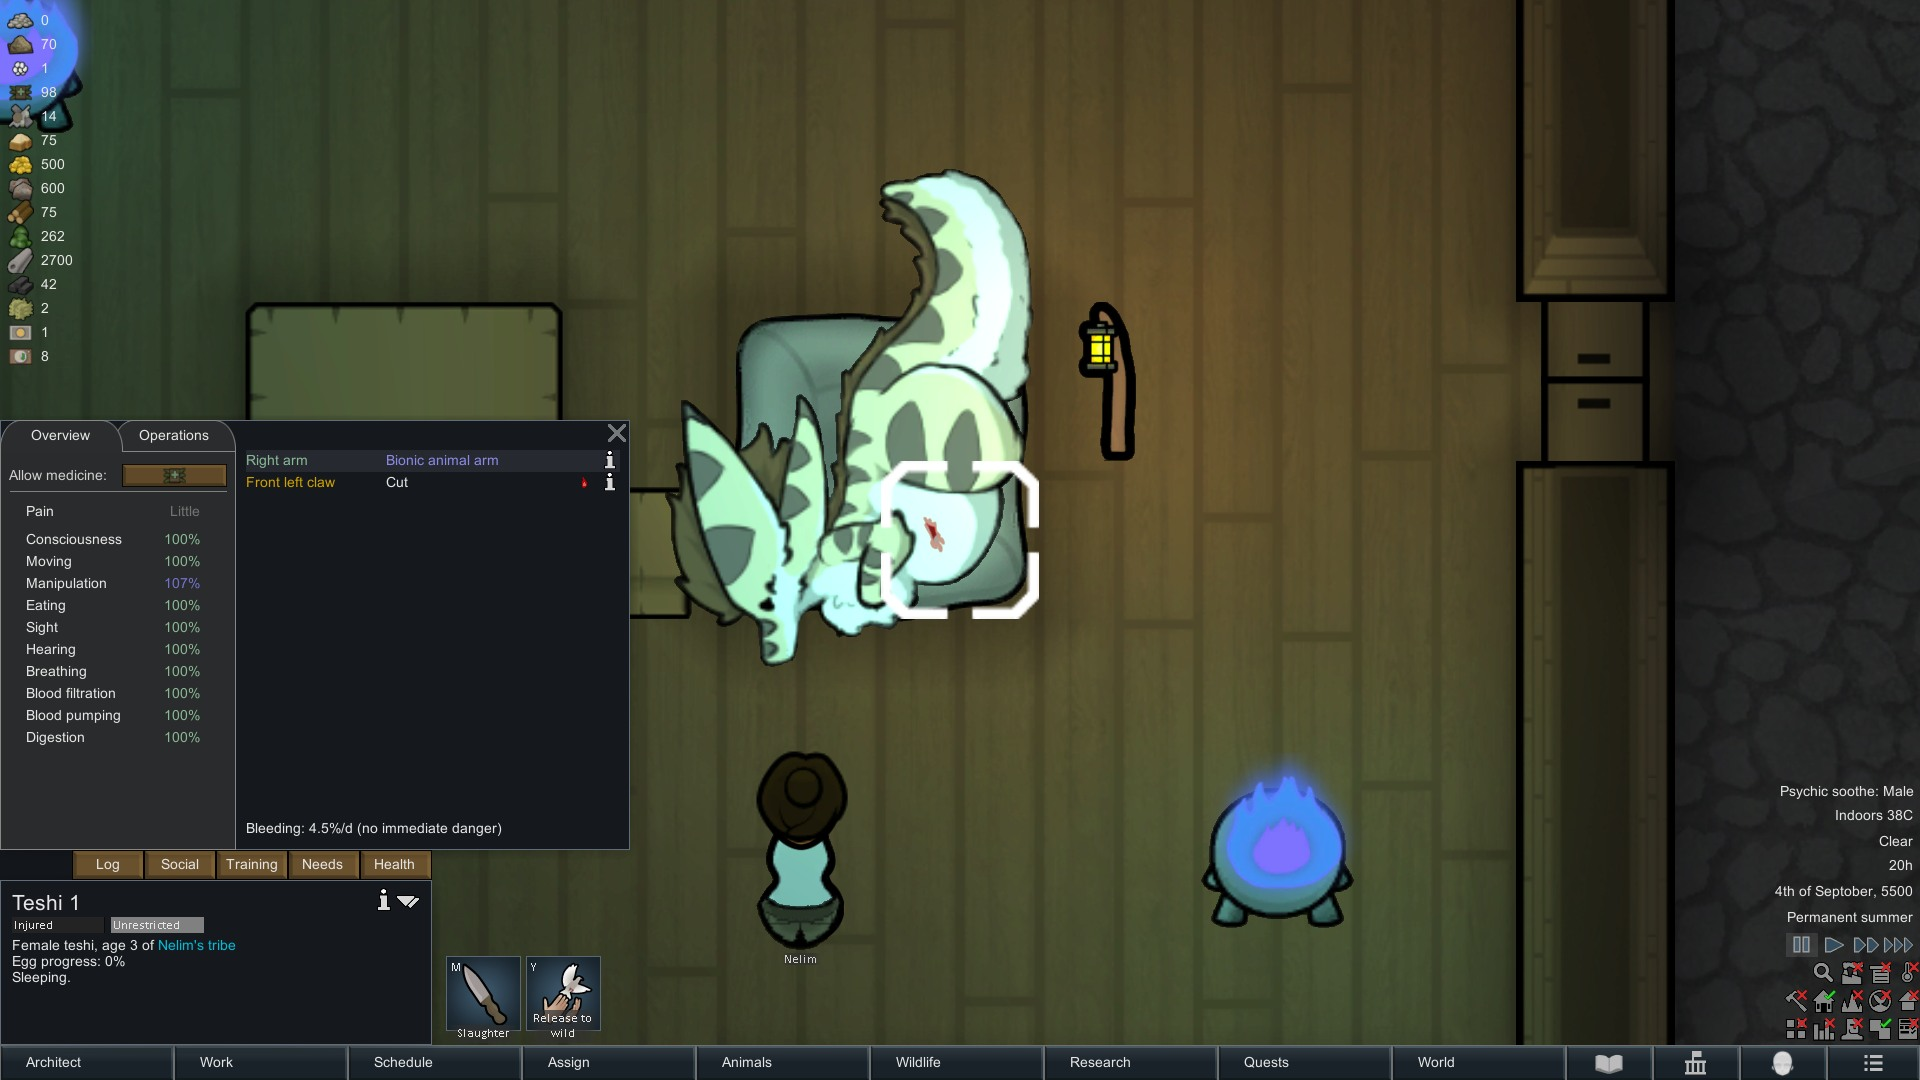
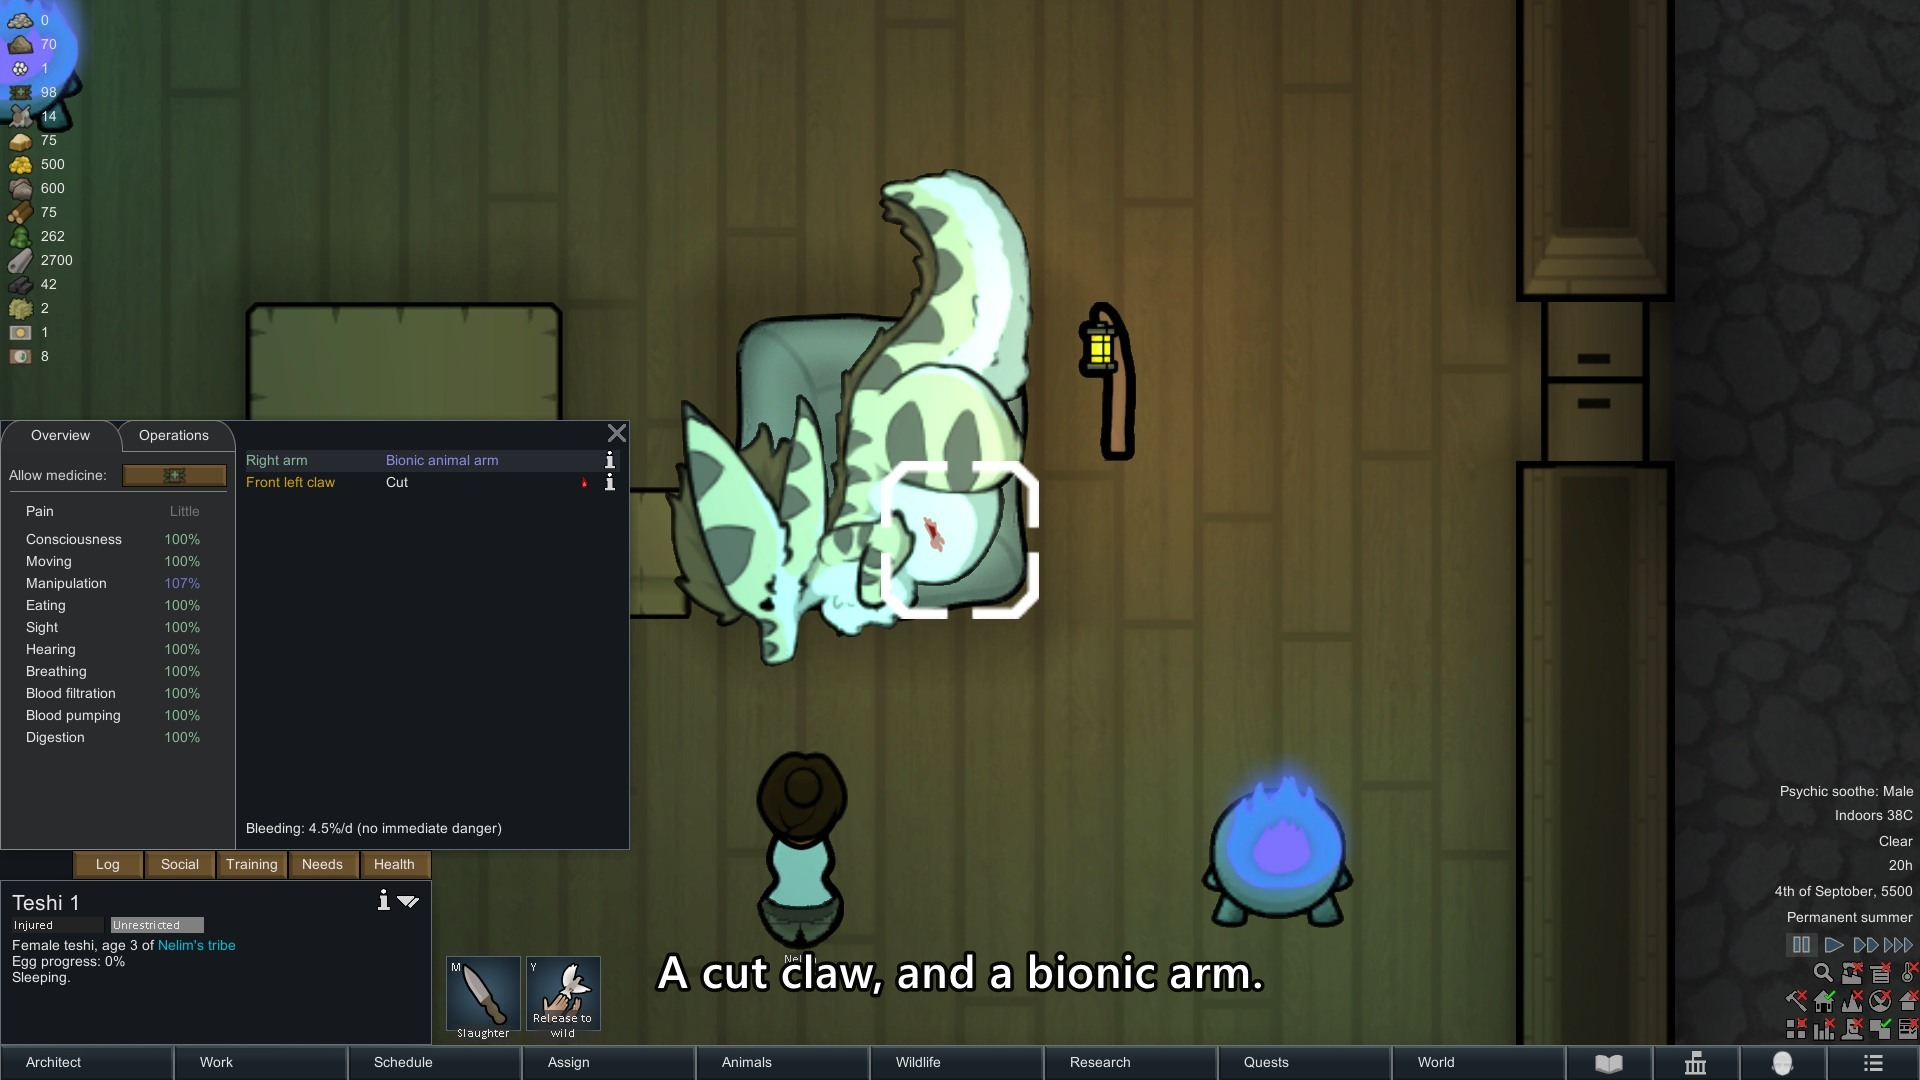
Gallery: English subtitle on the infirmary image too (six images)

Changed region(s): [[0.3438, 0.8861, 0.6562, 0.9167]]

diff --git a/STATUS.md b/STATUS.md
@@ -111,4 +111,4 @@ port's explicit MIT statement, not on public access alone.
 
 **WSL cleanup, 2026-10-15 (14.c).** Nothing removed: the two optional Workshop mods this mod's passes fetched, 3238353862 (ADS2) and 2269731409 (Nocturnal Animals), are still named by the `wsl-deps` of other mods (at least 10 and 9; ACertainSeries, AlphaMythology, ASlothMod, DustBunnies, Ebbbs, Dalmatians and others), so they stay. The Ticket Manager was asked for a slot and did not answer; the machine lock was free and the queue empty at the check, and nothing was deleted. Protocols re-read: AUDIT.md 14.c (cleanup message gives the owner the Workshop links to unsubscribe from), USE_THIS_INSTEAD.md (this mod's row `posted`). Check-Status.ps1 run under pwsh: 0 error, 0 warning.
 
-**Gallery subtitles, 2026-10-15 (owner's request).** English movie-style subtitles (white text, black outline, centred at the bottom) drawn into `Art/Gallery/1-portrait.jpg` to `5-asleep.jpg`; `0-preview.png` and `6-the-infirmary-health-tab.jpg` (interface) left as they were. The originals are in git history before this commit. The owner uploads the five images to Steam by hand; not read on the page.
+**Gallery subtitles, 2026-10-15 (owner's request).** English movie-style subtitles (white text, black outline, centred at the bottom) drawn into `Art/Gallery/1-portrait.jpg` to `5-asleep.jpg`; `0-preview.png` and `6-the-infirmary-health-tab.jpg` (interface) left as they were. The originals are in git history before this commit. The owner uploads the six images to Steam by hand; not read on the page.
